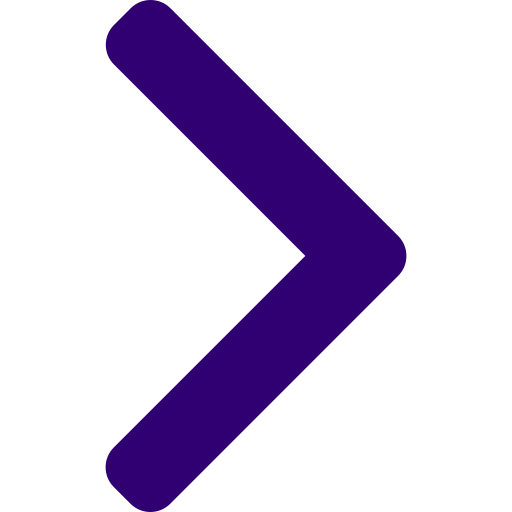
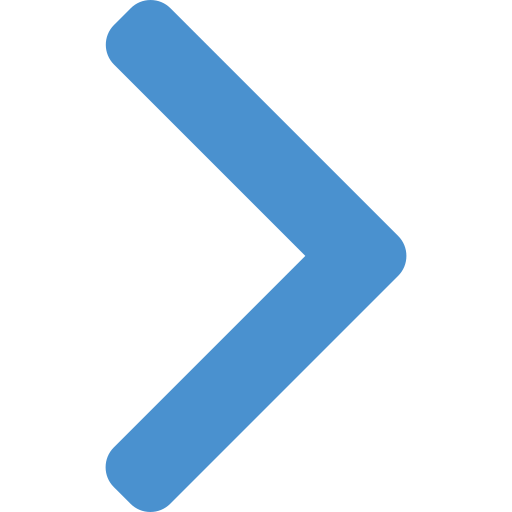
Carrossel
Alterei o carrossel de só alterar quando apertar com o botão para rolar se passar um determinado tempo.

Alterei a imagem das setas prev e next

Changed region(s): [[0.1875, 0.0, 0.8125, 1.0]]

diff --git a/index.html b/index.html
@@ -31,10 +31,17 @@
         <section class="noticias">
             <div class="caixao">
                 <div class="cartao noticiaprin">
-                    <a href="./noticias/meta-corta-600-cargos.html" target="_blank"> <img src="./imagens/meta-corta-600-cargos-link.png"></a>
+                    <a href="./noticias/meta-corta-600-cargos.html" target="_blank"> <img
+                            src="./imagens/meta-corta-600-cargos-link.png"></a>
                 </div>
-                <div id="carouselExample" class="carousel slide">
-                    <div class="carousel-inner">
+                <div id="carouselExampleInterval" class="carousel slide" data-bs-ride="caroussel">
+                    <div class="carousel-indicators">
+                        <button type="button" data-bs-target="#carouselExampleCaptions" data-bs-slide-to="0"
+                            class="active" aria-current="true" aria-label="Slide 1"></button>
+                        <button type="button" data-bs-target="#carouselExampleCaptions" data-bs-slide-to="1"
+                            aria-label="Slide 2"></button>
+                    </div>
+                    <div class="carousel-inner" data-bs-interval="10000">
                         <div class="carousel-item active">
                             <div class="cartao noticia2">
                                 <a href="./noticias/iPhone-17.html" target="_blank">
@@ -47,10 +54,11 @@
                                 </a>
                             </div>
                         </div>
-                        <div class="carousel-item">
+                        <div class="carousel-item" data-bs-interval="5000">
                             <div class="cartao noticia4">
                                 <a href="./noticias/como-o-sinal.html" target="_blank">
-                                    <img src="./imagens/como-o-sinal.png" class="d-block" alt="Operadora contra a bateria">
+                                    <img src="./imagens/como-o-sinal.png" class="d-block"
+                                        alt="Operadora contra a bateria">
                                 </a>
                             </div>
                             <div class="cartao noticia5">
@@ -59,12 +67,12 @@
                                 </a>
                             </div>
                         </div>
-                        <button class="carousel-control-prev" type="button" data-bs-target="#carouselExample"
+                        <button class="carousel-control-prev" type="button" data-bs-target="#carouselExampleInterval"
                             data-bs-slide="prev">
                             <span class="carousel-control-prev-icon" aria-hidden="true"></span>
                             <span class="visually-hidden">Previous</span>
                         </button>
-                        <button class="carousel-control-next" type="button" data-bs-target="#carouselExample"
+                        <button class="carousel-control-next" type="button" data-bs-target="#carouselExampleInterval"
                             data-bs-slide="next">
                             <span class="carousel-control-next-icon" aria-hidden="true"></span>
                             <span class="visually-hidden">Next</span>

diff --git a/CSS/main.css b/CSS/main.css
@@ -86,24 +86,48 @@ main{
   border-radius: 10px;
 }
 
-#carouselExample{
+#carouselExampleInterval{
   width: 80%;
   display: flex;
   justify-content: center;
   margin: 0;
 }
 
-#carouselExample .carousel-inner{
+#carouselExampleInterval .carousel-inner{
   width: 90%;
   height: auto;
 }
 
-#carouselExample .carousel-inner img{
+#carouselExampleInterval .carousel-inner img{
   width: 100%;
   margin: 0 0 10px 0;
   border-radius: 10px;
   height: 295px;
 }
+
+.carousel-control-next,
+.carousel-control-prev {
+  width: 10%;
+}
+
+.carousel-control-next-icon {
+  background-image: url('/Imagens/seta-next.png');
+  background-size: contain;
+  background-repeat: no-repeat;
+}
+
+.carousel-control-prev-icon {
+  background-image: url('/Imagens/seta-prev.png');
+  background-size: contain;
+  background-repeat: no-repeat;
+}
+
+.carousel-control-next-icon,
+.carousel-control-prev-icon {
+  width: 60px;
+  height: 60px;
+}
+
 
 #sobre{
   display: flex;
@@ -255,12 +279,12 @@ body.escuro .contatos .contato h2{
     height: auto;
   }
 
-  #carouselExample{
-    width: 100%;
+  #carouselExampleInterval{
+   width: 100%;
   }
 
-  #carouselExample .carousel-inner{
-    width: 100%;
+  #carouselExampleInterval .carousel-inner{
+   width: 100%;
   }
 
   .caixa{
@@ -296,17 +320,17 @@ body.escuro .contatos .contato h2{
     height: auto;
   }
 
-  #carouselExample{
+  #carouselExampleInterval{
     width: 100%;
     height: auto;
   }
 
-  #carouselExample .carousel-inner{
+  #carouselExampleInterval .carousel-inner{
     width: 100%;
     height: auto;
   }
 
- #carouselExample .carousel-inner img {
+ #carouselExampleInterval .carousel-inner img {
     height: 450px;
   }
 
